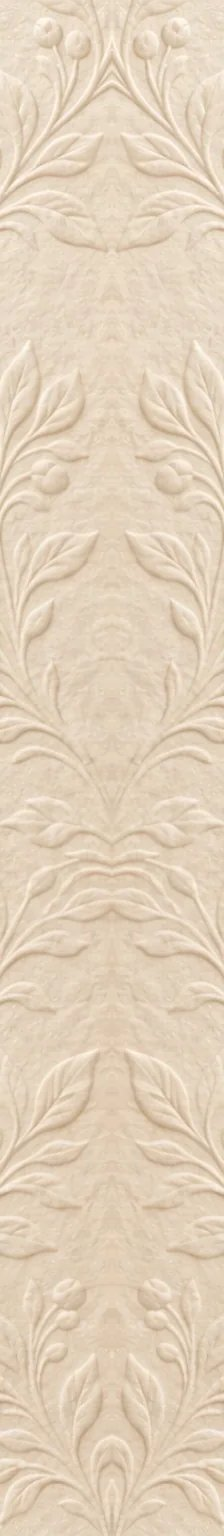
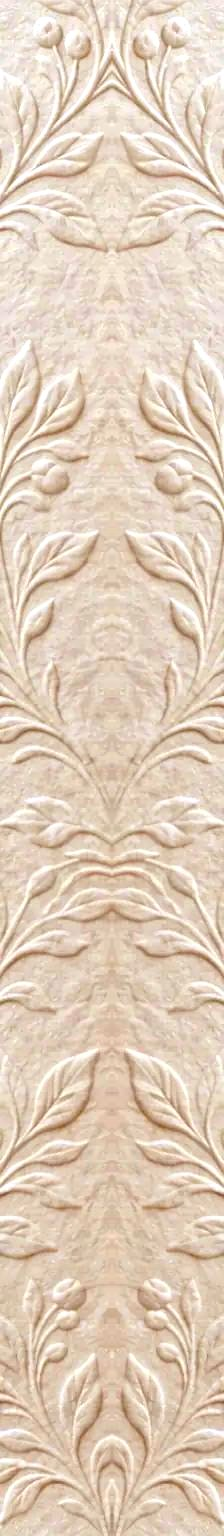
Entrada: vuelve la secuencia con la cinta, con el color ajustado a las imágenes nuevas
Claude-Session: https://claude.ai/code/session_01CPC8ckxxTpQ5o2jahJbfrt

diff --git a/index.html b/index.html
@@ -6,14 +6,14 @@
 <meta name="theme-color" content="#efe6d8">
 <title>Camila &amp; Juan · 08.12.2026</title>
 <meta name="description" content="Camila & Juan · Nos casamos el 8 de diciembre de 2026. Abrí tu invitación.">
-<link rel="preload" as="image" href="entrada/cuadro-0.webp?v=1791936969">
+<link rel="preload" as="image" href="entrada/cuadro-0.webp?v=2791936969">
 <link rel="prefetch" href="invitacion/">
 <link rel="stylesheet" href="https://fonts.googleapis.com/css2?family=Pinyon+Script&display=swap">
 <style>
   :root{--ivory:#efe6d8;--brown:#644732;--petroleum:#527987}
   *{box-sizing:border-box;margin:0}
   html,body{height:100%}
-  body{background:#ece3d3 url('entrada/fondo.jpg?v=1791936969') center top/auto 100% repeat-x;overflow:hidden;font-family:Georgia,serif;color:var(--brown)}
+  body{background:#efe0cc url('entrada/fondo.jpg?v=2791936969') center top/auto 100% repeat-x;overflow:hidden;font-family:Georgia,serif;color:var(--brown)}
 
   /* Escena con la proporción de los cuadros (1024x1536) */
   .stage{position:fixed;inset:0;display:flex;flex-direction:column;align-items:center;justify-content:center;padding:2vh 0}
@@ -31,8 +31,8 @@
      y se va descubriendo a medida que se abren las puertas. */
   .letter{position:absolute;left:8.5%;right:8.4%;top:4.6%;bottom:4.4%;container-type:size;display:flex;flex-direction:column;align-items:center;justify-content:center;
     text-align:center;opacity:0;clip-path:inset(0 50% 0 50%);transition:clip-path .2s cubic-bezier(.45,0,.55,1),opacity .2s}
-  .letter[data-step="2"]{opacity:1;clip-path:inset(0 23% 0 23%)}
-  .letter[data-step="3"]{opacity:1;clip-path:inset(0)}
+  .letter[data-step="5"]{opacity:1;clip-path:inset(0 23% 0 23%)}
+  .letter[data-step="6"]{opacity:1;clip-path:inset(0)}
   .letter .eyebrow{font-size:3.4cqw;letter-spacing:1.4cqw;text-transform:uppercase}
   .letter img{width:84%;margin:3cqh 0 2cqh}
   .letter .couple{width:78%;margin:2.5cqh 0 0;opacity:1;-webkit-mask-image:linear-gradient(#000 68%,transparent 98%);mask-image:linear-gradient(#000 68%,transparent 98%)}
@@ -58,10 +58,13 @@
 <main class="stage">
   <button class="scene" id="scene" aria-label="Abrir la invitación de Camila y Juan">
     <span class="frames" id="frames" aria-hidden="true">
-      <img src="entrada/cuadro-0.webp?v=1791936969" alt="" fetchpriority="high">
-      <img src="entrada/abre-1.webp?v=1791936969" alt="">
-      <img src="entrada/abre-2.webp?v=1791936969" alt="">
-      <img src="entrada/abre-3.webp?v=1791936969" alt="">
+      <img src="entrada/cuadro-0.webp?v=2791936969" alt="" fetchpriority="high">
+      <img src="entrada/cuadro-1.webp?v=2791936969" alt="">
+      <img src="entrada/cuadro-2.webp?v=2791936969" alt="">
+      <img src="entrada/cuadro-3.webp?v=2791936969" alt="">
+      <img src="entrada/abre-1.webp?v=2791936969" alt="">
+      <img src="entrada/abre-2.webp?v=2791936969" alt="">
+      <img src="entrada/abre-3.webp?v=2791936969" alt="">
       <span class="letter" id="letter">
         <span class="eyebrow">Nos casamos</span>
         <img class="couple" src="invitacion/assets/pareja-sepia.webp?v=1791936748" alt="">
@@ -76,7 +79,7 @@
 <audio id="bg-music" src="invitacion/assets/musica.mp3" preload="auto" loop playsinline></audio>
 <script>
   const DESTINO = 'invitacion/';
-  const PASO = 380;          // ms entre cuadros (el fundido dura .2s: se superponen)
+  const PASO = 200;          // ms entre cuadros (el fundido dura .2s: se superponen)
   const scene = document.getElementById('scene');
   const letter = document.getElementById('letter');
   const frames = [...document.querySelectorAll('#frames > img')];
@@ -95,7 +98,7 @@
     if (reduce) { frames.at(-1).classList.add('on'); letter.dataset.step = frames.length - 1; await wait(600); }
     else for (let i = 1; i < frames.length; i++) {
       frames[i].classList.add('on');
-      if (i >= 2) letter.dataset.step = i;
+      if (i >= 5) letter.dataset.step = i;
       await wait(PASO);
     }
     await wait(reduce ? 0 : 650);   // la carta queda abierta un momento, con la invitación a la vista
